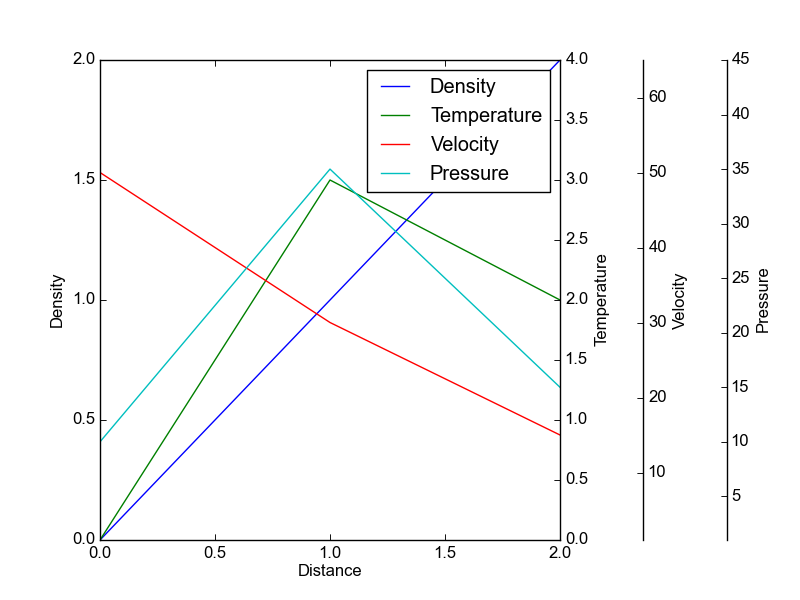
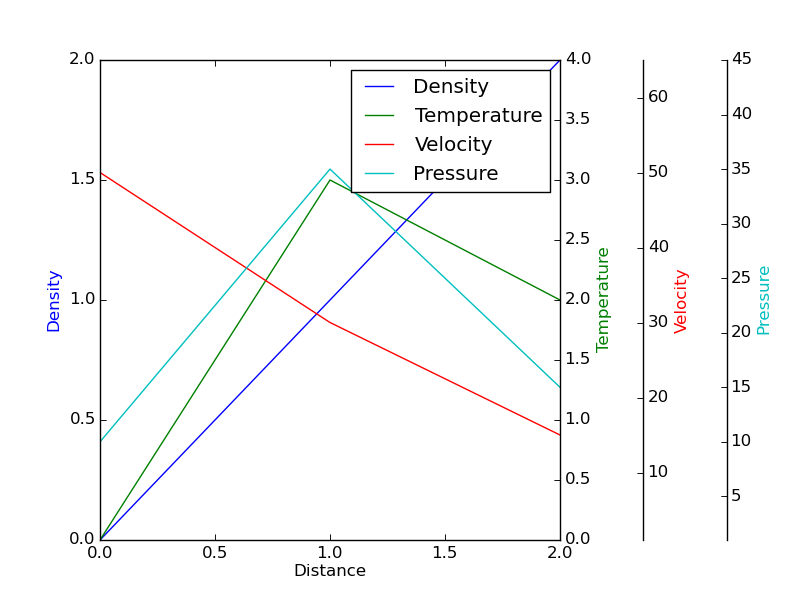
hard coded data set name, but otherwise plots from MYSQL output dat file

diff --git a/DataRequestHandler.py b/DataRequestHandler.py
@@ -3,6 +3,13 @@
 
 import os.path
 from DataFileCreator import DataFileCreator
+from mpl_toolkits.axes_grid1 import host_subplot
+import mpl_toolkits.axisartist as AA
+import matplotlib.pyplot as plt 
+import matplotlib.dates as md
+import csv
+import json
+import datetime
 
 # A Python script called by PHP with data request variables instantiates this
 # class.  DataRequestHandler is responsible for managing the user's data
@@ -30,14 +37,75 @@ class DataRequestHandler:
         #check if nLines > 1
         if self.fc.getNLines() == 1:
             print("No data points in file: '%s'\n" % data_filename)
+            exit()
 
-        #make graph
+        #create dict for matplotlib
+        readings = self.makeDictFromFile(data_filename)
+        d1Data = list(zip(*readings["dev1"]))
+        #print(d1Data)
+        ts_format = '%Y-%m-%d %H:%M:%S'
+        times = [datetime.datetime.strptime(ts,ts_format) for ts in d1Data[0]]
+        print(times)
+
+
+        #----------begin making the plot----------
+        
+        print("Begin making plot\n")
+        nDev = len(self.fc.devices)
+
+        host = host_subplot(111,axes_class = AA.Axes)
+
+        host.set_xlabel("Time",labelpad=20)
+        ax = plt.gca()
+        #http://stackoverflow.com/a/4091264/1717828
+        xfmt = md.DateFormatter('\n\n%m-%d\n%H:%M:%S')
+        ax.xaxis.set_major_formatter(xfmt)
+
+        host.set_ylabel(self.fc.devices[0])
+
+        plot0, = host.plot(times,d1Data[1],marker='o')
+
+        plt.draw()
+        plt.show()
+        #----------plot drawing finished----------
+
+    def makeDictFromFile(self,data_filename):
+        #make dictionary of readings
+        #{
+        #    "evapSi":[
+        #        ['2016-01-29 00:00:00','3'],
+        #        ['2016-01-29 00:00:01','4']
+        #        ],
+        #    "he3Flow"[
+        #        ['2016-01-29 00:00:00','3'],
+        #        ['2016-01-29 00:00:01','4']
+        #        ],        
+        #    "evapPress"[
+        #        ['2016-01-29 00:00:00','3'],
+        #        ['2016-01-29 00:00:01','4']
+        #        ['2016-01-29 00:00:02','8']
+        #        ],        
+        #    ]
+        #}
+        dev_list = self.fc.devices
+
+        readings = {device:[] for device in dev_list}
+        with open(data_filename, mode='r') as infile:
+            reader = csv.reader(infile)
+            next(reader,None) #skip header
+            for d,v,t in reader:
+                readings[d].append([t,v])
+
+        #print(json.dumps(readings,sort_keys=True,indent=2))
+        return readings
+
+
 
         
 
 if __name__ == "__main__":
     create_data_preview = True
-    drh = DataRequestHandler(set(['dev1','dev3']),['2016-01-25 00:00:01','2016-01-25 10:52:00'])
+    drh = DataRequestHandler(set(['dev1','dev2','dev3']),['2016-01-24 00:00:01','2016-01-27 10:52:00'])
     if create_data_preview:
         print("creating data preview")
-    drh.makeDataPreview()
+        drh.makeDataPreview()

diff --git a/plot_making_script.py b/plot_making_script.py
@@ -47,6 +47,11 @@ if 1:
 
     host.legend()
 
+    host.axis["left"].label.set_color(p1.get_color())
+    par1.axis["right"].label.set_color(p2.get_color())
+    par2.axis["right"].label.set_color(p3.get_color())
+    par3.axis["right"].label.set_color(p4.get_color())
+
     plt.draw()
 #    plt.show()
 
